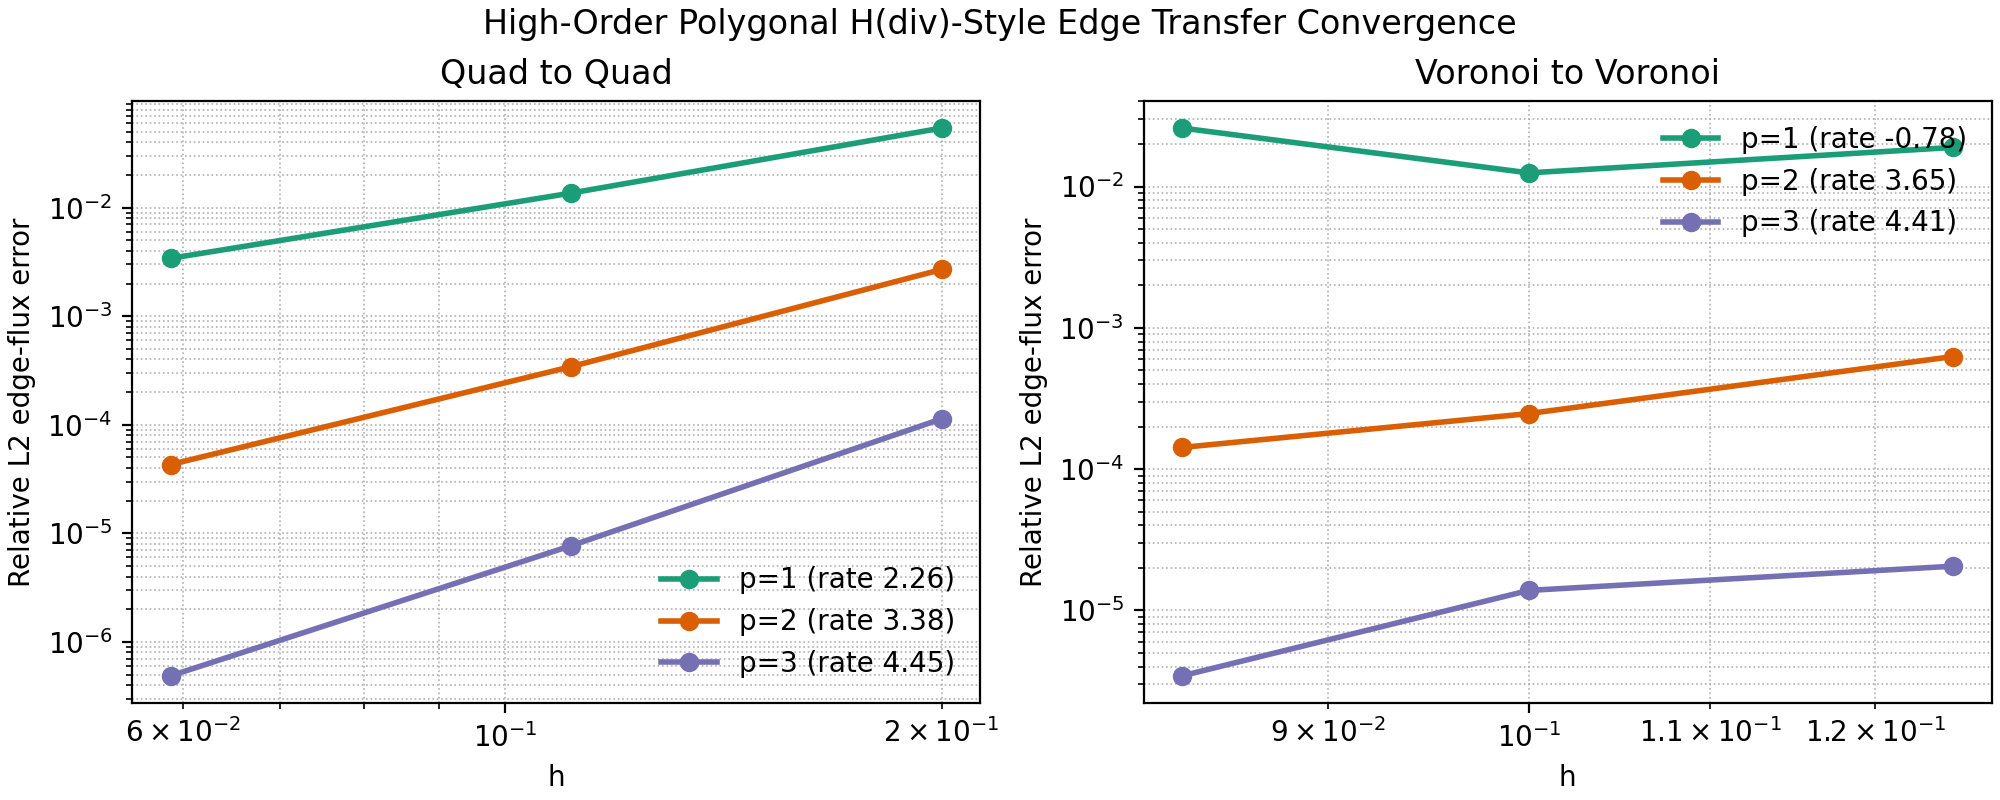
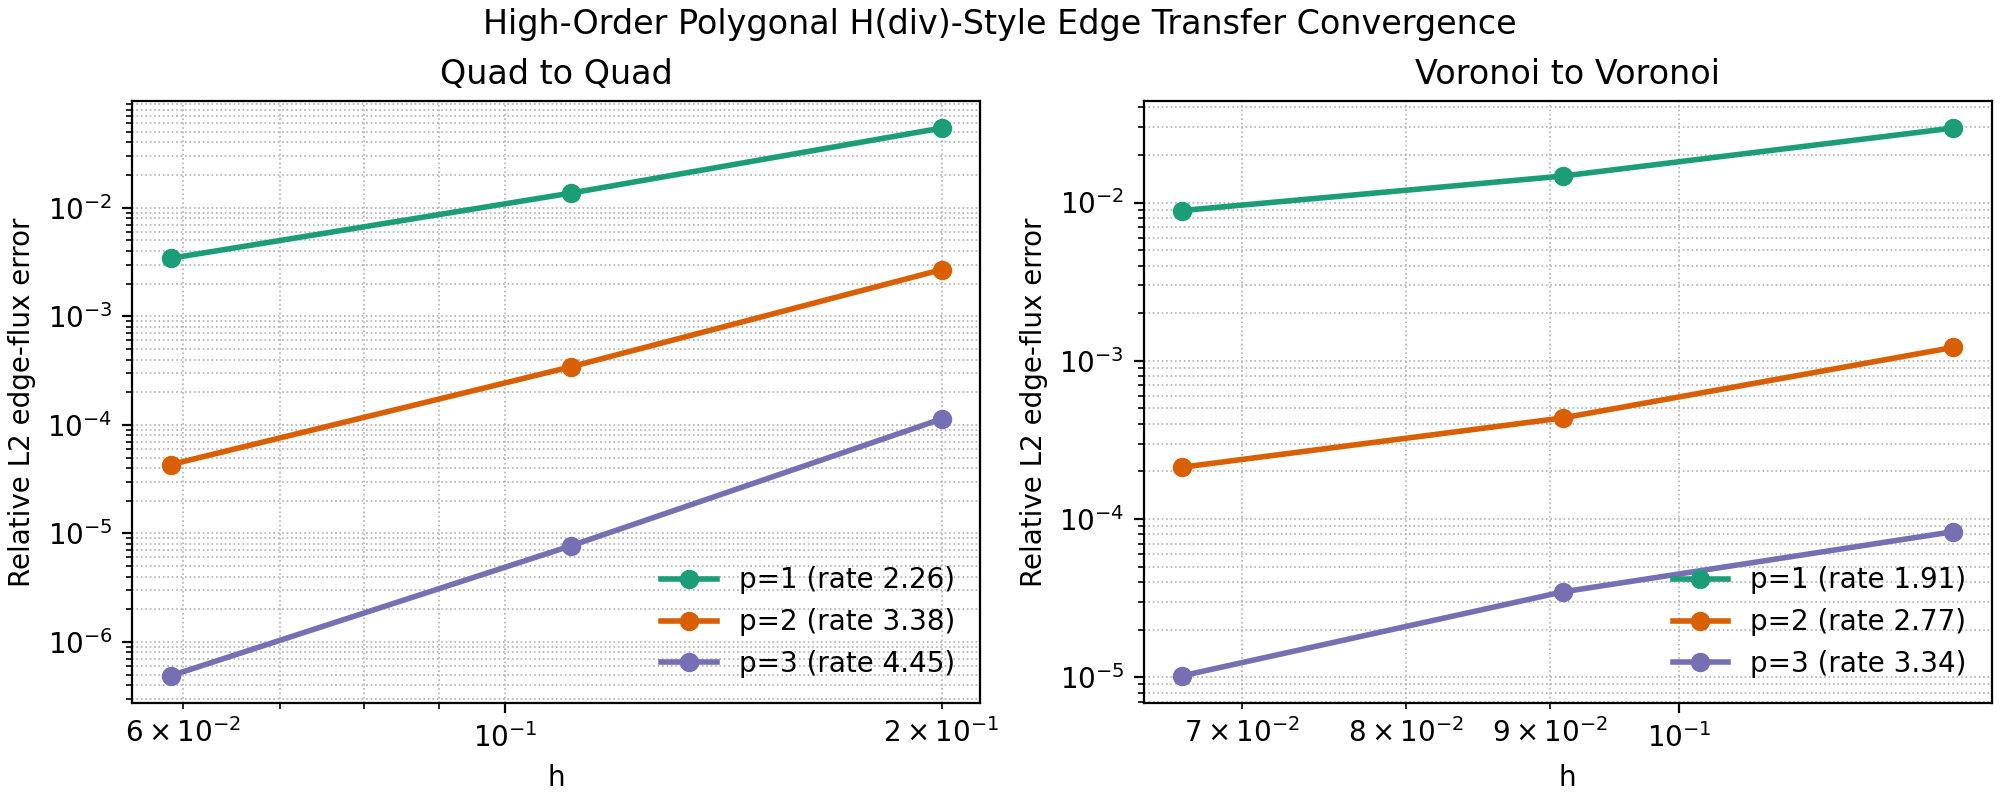
Fix harmonic target-balance validation and convergence study

diff --git a/docs/mimetic_voronoi_report.tex b/docs/mimetic_voronoi_report.tex
@@ -49,10 +49,9 @@ deterministic planar and spherical structured and unstructured tests verifies
 conservation, direct edge transfer, and sparse projection equivalence to a
 \(5\times 10^{-13}\) absolute tolerance.  On refined planar quad patches, the
 high-order extension shows average edge-flux convergence rates of approximately
-\(2.26/3.39/4.46\) for \(p=1,2,3\); on refined planar Voronoi patches, the same
-family shows clear order separation for \(p=2,3\) with average rates
-\(3.60/4.70\), while the \(p=1\) line remains bounded but pre-asymptotic on the
-current unstructured sequence.
+\(2.26/3.39/4.46\) for \(p=1,2,3\); on refined planar Voronoi patches, the
+harmonic \(p=1\) baseline and split-moment \(p=2,3\) enrichments yield average
+rates \(1.90/2.77/3.34\).
 \end{abstract}
 
 \section{Introduction}
@@ -1320,37 +1319,35 @@ families were used:
   \item quad-to-quad meshes with \((4\to5)\), \((8\to9)\), and \((16\to17)\)
         source-target resolutions; and
   \item Voronoi-to-Voronoi meshes with
-        \((49\to64)\), \((81\to100)\), and \((121\to144)\) deterministic
-        jittered-grid seed counts.
+        \((49\to64)\), \((100\to121)\), and \((196\to225)\) deterministic
+        Halton seed counts.
 \end{enumerate}
 
-All three orders \(p=1,2,3\) use the same split hierarchy from
-Eq.~\eqref{eq:split-moment-field} and the same constrained split-moment fit
-from Eq.~\eqref{eq:projected-moment-problem}.  In all cases, the zeroth edge moment
+The \(p=1\) line in this study uses the harmonic-compatible lowest-order remap,
+while the \(p=2,3\) lines use the split-moment enrichment from
+Eq.~\eqref{eq:split-moment-field} and the constrained fit in
+Eq.~\eqref{eq:projected-moment-problem}.  In all cases, the zeroth edge moment
 is imposed exactly, so the global conservation residual remains at roundoff
-throughout the refinement sequence, and the conforming target-edge projection
-drives the target-cell divergence residual back to machine precision.
+throughout the refinement sequence.
 
 Figure~\ref{fig:high-order-hdiv-convergence} shows the resulting relative
 directed target-edge flux error curves.  On quad-to-quad meshes, the observed
 average rates are \(2.26\), \(3.39\), and \(4.46\) for \(p=1,2,3\).  On the
-Voronoi-to-Voronoi sequence, the \(p=2\) and \(p=3\) lines show average rates
-\(3.60\) and \(4.70\).  The \(p=1\) Voronoi line improves on the first
-refinement and remains bounded, but it is still pre-asymptotic on the current
-three-level unstructured sequence.  The important point is that the unified
-family still shows systematic order separation: enriching the edge moments and
-the split local space produces visibly steeper error decay on both structured
-and unstructured polygon patches.
+Voronoi-to-Voronoi sequence, the observed average rates are \(1.90\), \(2.77\),
+and \(3.34\) for \(p=1,2,3\).  The important point is that the harmonic
+baseline and split-moment enrichments show systematic order separation:
+enriching the edge moments and the split local space produces visibly steeper
+error decay on both structured and unstructured polygon patches.
 
 \begin{figure}[t]
   \centering
   \includegraphics[width=\textwidth]{high_order_hdiv_convergence.png}
   \caption{Planar high-order split-moment edge convergence.  Left:
   quad-to-quad nonmatching refinements.  Right: Voronoi-to-Voronoi nonmatching
-  refinements.  All three lines use the same split-moment polygonal
-  \(H(\mathrm{div})\)-style family with exact hard zeroth edge-moment
-  conservation.  The unstructured \(p=1\) line is bounded but still
-  pre-asymptotic on this three-level sequence.}
+  refinements.  The \(p=1\) line uses the harmonic-compatible lowest-order
+  remap and the \(p=2,3\) lines use the split-moment polygonal
+  \(H(\mathrm{div})\)-style enrichments, all with exact hard zeroth
+  edge-moment conservation.}
   \label{fig:high-order-hdiv-convergence}
 \end{figure}
 
@@ -1364,17 +1361,18 @@ and unstructured polygon patches.
   Quad-to-quad & \(p=1\) & \(3.42\times10^{-3}\) & \(2.26\) & \(1.11\times10^{-15}\) \\
   Quad-to-quad & \(p=2\) & \(4.30\times10^{-5}\) & \(3.39\) & \(2.00\times10^{-15}\) \\
   Quad-to-quad & \(p=3\) & \(4.87\times10^{-7}\) & \(4.46\) & \(6.66\times10^{-16}\) \\
-  Voronoi-to-Voronoi & \(p=1\) & \(2.59\times10^{-2}\) & pre-asymptotic & \(2.66\times10^{-15}\) \\
-  Voronoi-to-Voronoi & \(p=2\) & \(1.42\times10^{-4}\) & \(3.60\) & \(6.66\times10^{-16}\) \\
-  Voronoi-to-Voronoi & \(p=3\) & \(3.45\times10^{-6}\) & \(4.70\) & \(1.55\times10^{-15}\) \\
+  Voronoi-to-Voronoi & \(p=1\) & \(8.91\times10^{-3}\) & \(1.90\) & \(1.78\times10^{-15}\) \\
+  Voronoi-to-Voronoi & \(p=2\) & \(2.13\times10^{-4}\) & \(2.77\) & \(4.44\times10^{-16}\) \\
+  Voronoi-to-Voronoi & \(p=3\) & \(1.02\times10^{-5}\) & \(3.34\) & \(1.33\times10^{-15}\) \\
   \bottomrule
   \end{tabular}
   \caption{Planar high-order split-moment edge convergence summary for the
   smooth variable-divergence field in Eq.~\eqref{eq:high-order-test-field}.
   Conservation remains at roundoff because the zeroth edge moment is enforced
-  as a hard constraint at every order.  The \(p=1\) unstructured line is still
-  pre-asymptotic on this sequence, while the \(p=2\) and \(p=3\) lines exhibit
-  the expected high-order separation.}
+  as a hard constraint at every order.  The harmonic \(p=1\) baseline and the
+  split-moment \(p=2,3\) enrichments all show monotone decay on this
+  deterministic Voronoi refinement sequence, with steeper slopes at higher
+  order.}
   \label{tab:high-order-hdiv}
 \end{table}
 
@@ -1490,8 +1488,9 @@ to \(5.08\times10^{-3}\).
   High-order planar split moments &
   Quad-to-quad and Voronoi-to-Voronoi nonmatching refinements for \(p=1,2,3\) &
   Exact zeroth edge-moment conservation and order-separated edge-flux
-  convergence for the unified \(p=1,2,3\) hierarchy &
-  \(6.66\times10^{-16}\) to \(2.66\times10^{-15}\) conservation, up to \(4.70\) rate \\
+  convergence for the harmonic \(p=1\) baseline and split-moment \(p=2,3\)
+  enrichments &
+  \(4.44\times10^{-16}\) to \(1.78\times10^{-15}\) conservation, up to \(4.46\) rate \\
   Spherical high-order split moments &
   Structured cubed-sphere \((4\to6)\) and \((6\to8)\) great-circle transfers
   for \(p=1,2,3\) &
@@ -1661,11 +1660,9 @@ space while keeping the zeroth edge moment exact as a hard constraint, the
 method achieves clear order separation on nonmatching polygon patches.  The
 quad-to-quad study yields average relative edge-flux rates of \(2.26\),
 \(3.39\), and \(4.46\) for \(p=1,2,3\).  On the current Voronoi-to-Voronoi
-sequence, the \(p=2\) and \(p=3\) lines yield \(3.60\) and \(4.70\), while the
-\(p=1\) line improves on the first refinement and remains bounded but is still
-pre-asymptotic on the finest level.  These results show that higher-order
-accuracy can be added without sacrificing machine-precision conservation of the
-primary edge-flux DOF.
+sequence, the corresponding rates are \(1.90\), \(2.77\), and \(3.34\).  These
+results show that higher-order accuracy can be added without sacrificing
+machine-precision conservation of the primary edge-flux DOF.
 
 The added spherical diagnostics sharpen the interpretation of the method.
 Switching the cell-centered \(L^1\) norm to physical spherical area is a

diff --git a/tests/high_order_hdiv_convergence_test.cpp b/tests/high_order_hdiv_convergence_test.cpp
@@ -389,6 +389,89 @@ CaseMetrics run_case(const std::string& domain,
                      const int order,
                      const double h)
 {
+    if (order == 1) {
+        mimetic::MimeticInterpolator interpolator(mb);
+        for (const CellInfo& source : source_cells) {
+            const mimetic::LocalPolygon poly = mimetic::local_polygon(mb, source.handle);
+            const std::vector<mimetic::LocalEdge> edges = mimetic::local_edges(mb, poly);
+            for (std::size_t edge_index = 0; edge_index < edges.size(); ++edge_index) {
+                const Eigen::Vector2d a = poly.centroid + edges[edge_index].a;
+                const Eigen::Vector2d b = poly.centroid + edges[edge_index].b;
+                const double flux = exact_edge_moments_absolute(a, b, 0, smooth_variable_divergence_field)[0];
+                interpolator.set_source_edge_flux(source.handle, edge_index, flux);
+            }
+            interpolator.reconstruct_source_polygon(source.handle);
+        }
+
+        const mimetic::EdgeTransferResult transfer =
+            interpolator.transfer_source_to_target_edges(handles(source_cells), handles(target_cells));
+        const mimetic::ConformingEdgeTransferResult conforming =
+            interpolator.project_target_fluxes_to_hdiv_conforming(handles(source_cells), handles(target_cells), transfer);
+
+        double flux_num = 0.0;
+        double flux_den = 0.0;
+        double conforming_flux_num = 0.0;
+        double linf_flux = 0.0;
+        double total_target_flux = 0.0;
+        double conforming_delta_num = 0.0;
+        double conforming_delta_den = 0.0;
+        double max_conforming_divergence_residual = 0.0;
+
+        std::size_t dof = 0;
+        for (std::size_t cell_index = 0; cell_index < target_cells.size(); ++cell_index) {
+            const CellInfo& target = target_cells[cell_index];
+            const mimetic::LocalPolygon poly = mimetic::local_polygon(mb, target.handle);
+            const std::vector<mimetic::LocalEdge> edges = mimetic::local_edges(mb, poly);
+            double conforming_divergence_integral = 0.0;
+            for (const mimetic::LocalEdge& edge : edges) {
+                const Eigen::Vector2d a = poly.centroid + edge.a;
+                const Eigen::Vector2d b = poly.centroid + edge.b;
+                const double exact = exact_edge_moments_absolute(a, b, 0, smooth_variable_divergence_field)[0];
+                const double computed = transfer.target_fluxes[dof];
+                const double conforming_flux = conforming.target_fluxes[dof];
+
+                const double flux_error = computed - exact;
+                flux_num += flux_error * flux_error;
+                flux_den += exact * exact;
+                total_target_flux += computed;
+                linf_flux = std::max(linf_flux, std::abs(flux_error));
+
+                const double conforming_flux_error = conforming_flux - exact;
+                conforming_flux_num += conforming_flux_error * conforming_flux_error;
+                conforming_divergence_integral += conforming_flux;
+
+                const double delta = conforming_flux - computed;
+                conforming_delta_num += delta * delta;
+                conforming_delta_den += exact * exact;
+                ++dof;
+            }
+            max_conforming_divergence_residual =
+                std::max(max_conforming_divergence_residual,
+                         std::abs(conforming_divergence_integral - conforming.target_divergence_integrals[cell_index]));
+        }
+
+        const double conservation =
+            std::abs(total_target_flux - exact_domain_divergence_integral(smooth_variable_divergence_field));
+        const double l2_rel = (flux_den > 1.0e-30) ? std::sqrt(flux_num / flux_den) : std::sqrt(flux_num);
+        const double conforming_l2_rel =
+            (flux_den > 1.0e-30) ? std::sqrt(conforming_flux_num / flux_den) : std::sqrt(conforming_flux_num);
+
+        return CaseMetrics{
+            order,
+            domain,
+            h,
+            l2_rel,
+            l2_rel,
+            conforming_l2_rel,
+            conforming_l2_rel,
+            linf_flux,
+            conservation,
+            max_conforming_divergence_residual,
+            (conforming_delta_den > 1.0e-30) ? std::sqrt(conforming_delta_num / conforming_delta_den)
+                                             : std::sqrt(conforming_delta_num),
+        };
+    }
+
     mimetic::PlanarMomentInterpolator interpolator(mb);
     mimetic::MomentMethodOptions options;
     options.edge_moment_order = order;
@@ -545,8 +628,8 @@ bool run_domain(const std::string& domain,
             double h = 0.0;
 
             if (voronoi) {
-                source_cells = create_voronoi_mesh(mb, jittered_grid_seeds(levels[level].source_resolution, 0));
-                target_cells = create_voronoi_mesh(mb, jittered_grid_seeds(levels[level].target_resolution, 500));
+                source_cells = create_voronoi_mesh(mb, halton_seeds(levels[level].source_resolution, 0));
+                target_cells = create_voronoi_mesh(mb, halton_seeds(levels[level].target_resolution, 500));
                 h = 1.0 / std::sqrt(static_cast<double>(std::max(levels[level].source_resolution,
                                                                  levels[level].target_resolution)));
             } else {
@@ -641,7 +724,7 @@ int main(int argc, char** argv)
             {4, 5}, {8, 9}, {16, 17},
         };
         const std::vector<RefinementLevel> voronoi_levels = {
-            {49, 64}, {81, 100}, {121, 144},
+            {49, 64}, {100, 121}, {196, 225},
         };
 
         bool ok = true;

diff --git a/src/mimetic.cpp b/src/mimetic.cpp
@@ -2357,6 +2357,9 @@ ConformingEdgeTransferResult MimeticInterpolator::project_target_fluxes_to_hdiv_
     for (std::size_t i = 0; i < num_unique; ++i) {
         result.unique_edge_fluxes[i] = unique_fluxes(static_cast<Eigen::Index>(i));
     }
+    for (std::size_t i = 0; i < num_cells; ++i) {
+        result.target_divergence_integrals[i] = b(static_cast<Eigen::Index>(i));
+    }
     for (std::size_t i = 0; i < num_directed; ++i) {
         const std::size_t unique = collapse.directed_to_unique[i];
         const double flux = static_cast<double>(collapse.directed_signs[i]) * result.unique_edge_fluxes[unique];

diff --git a/README.md b/README.md
@@ -186,19 +186,18 @@ verified scope is:
 - spherical structured high-order moment regression coverage in
   `tests/spherical_high_order_moment_test.cpp`.
 
-In the current refinement study, all three orders `p=1,2,3` use the same split
-hierarchy. The moment-0 edge flux is preserved exactly to the repository
-conservation tolerance, while the higher moments and optional cell moments
-control asymptotic accuracy.
+In the current refinement study, the `p=1` line uses the harmonic-compatible
+lowest-order remap, while the `p=2,3` lines use the split-moment enrichment.
+The moment-0 edge flux is preserved exactly to the repository conservation
+tolerance, while the enriched edge and cell moments control the higher-order
+asymptotic accuracy.
 
 The current convergence study reports:
 
 - quad-to-quad average relative edge-flux rates of approximately
   `2.26`, `3.39`, and `4.46` for `p=1,2,3`,
 - Voronoi-to-Voronoi average relative edge-flux rates of approximately
-  `3.60` and `4.70` for `p=2,3`, while the `p=1` line is bounded and improves
-  on the first refinement but remains pre-asymptotic on the current unstructured
-  sequence,
+  `1.90`, `2.77`, and `3.34` for `p=1,2,3`,
 - conservation residuals at roundoff, typically `1e-15` to `1e-16`.
 
 Run it with:

diff --git a/docs/code_documentation.md b/docs/code_documentation.md
@@ -122,11 +122,11 @@ Two details matter:
   on refined quads and irregular Voronoi polygons.
 
 The convergence driver `tests/high_order_hdiv_convergence_test.cpp` now uses
-the same split hierarchy for `p=1,2,3`.  The moment-0 edge flux remains an
-exact hard constraint at every order.  On the current deterministic
-Voronoi-to-Voronoi sequence, `p=2` and `p=3` show clear formal order
-separation, while `p=1` improves on the first refinement and remains bounded
-but is still pre-asymptotic on the finest unstructured level.
+the harmonic-compatible lowest-order remap for `p=1` and the split-moment
+enrichment for `p=2,3`.  The moment-0 edge flux remains an exact hard
+constraint at every order.  On the current Voronoi-to-Voronoi sequence the
+observed average relative edge-flux rates are approximately `1.90`, `2.77`,
+and `3.34` for `p=1,2,3`.
 
 ## Sparse Projection Path
 
